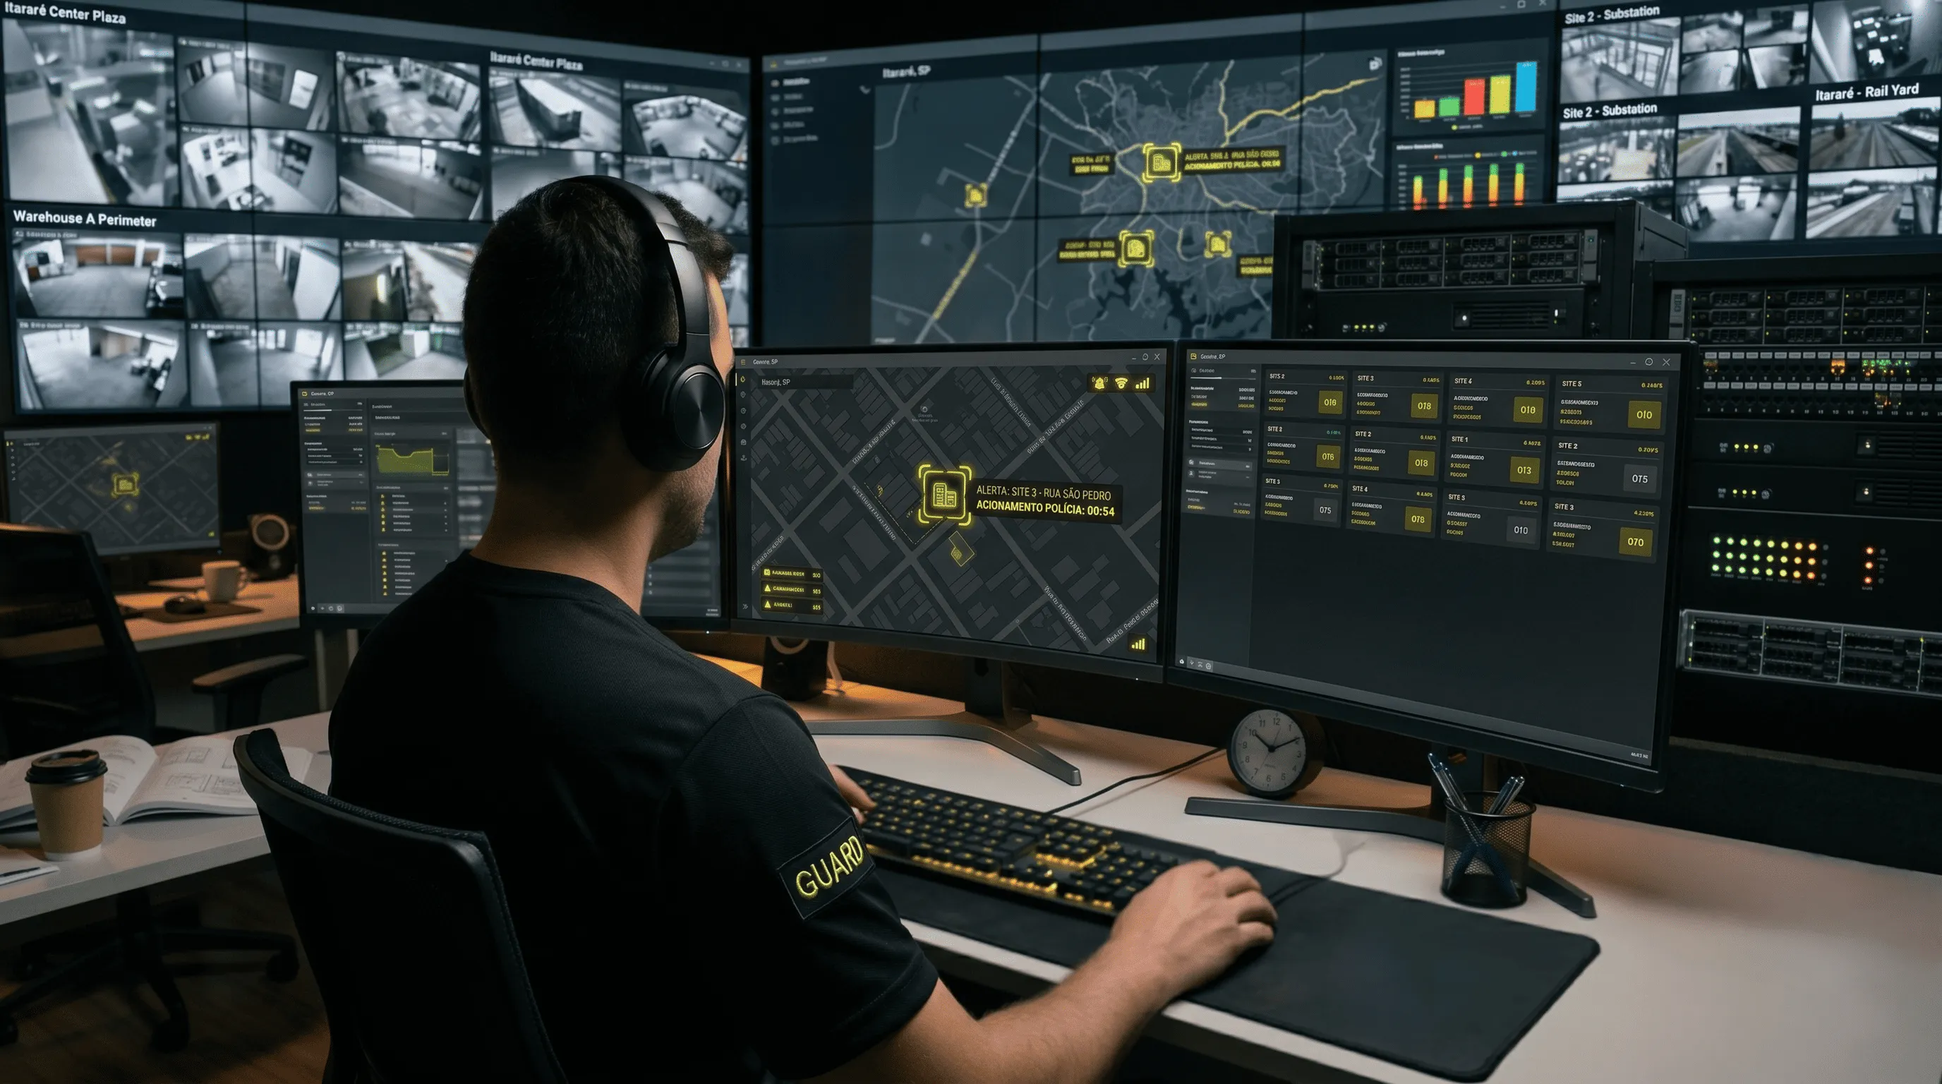
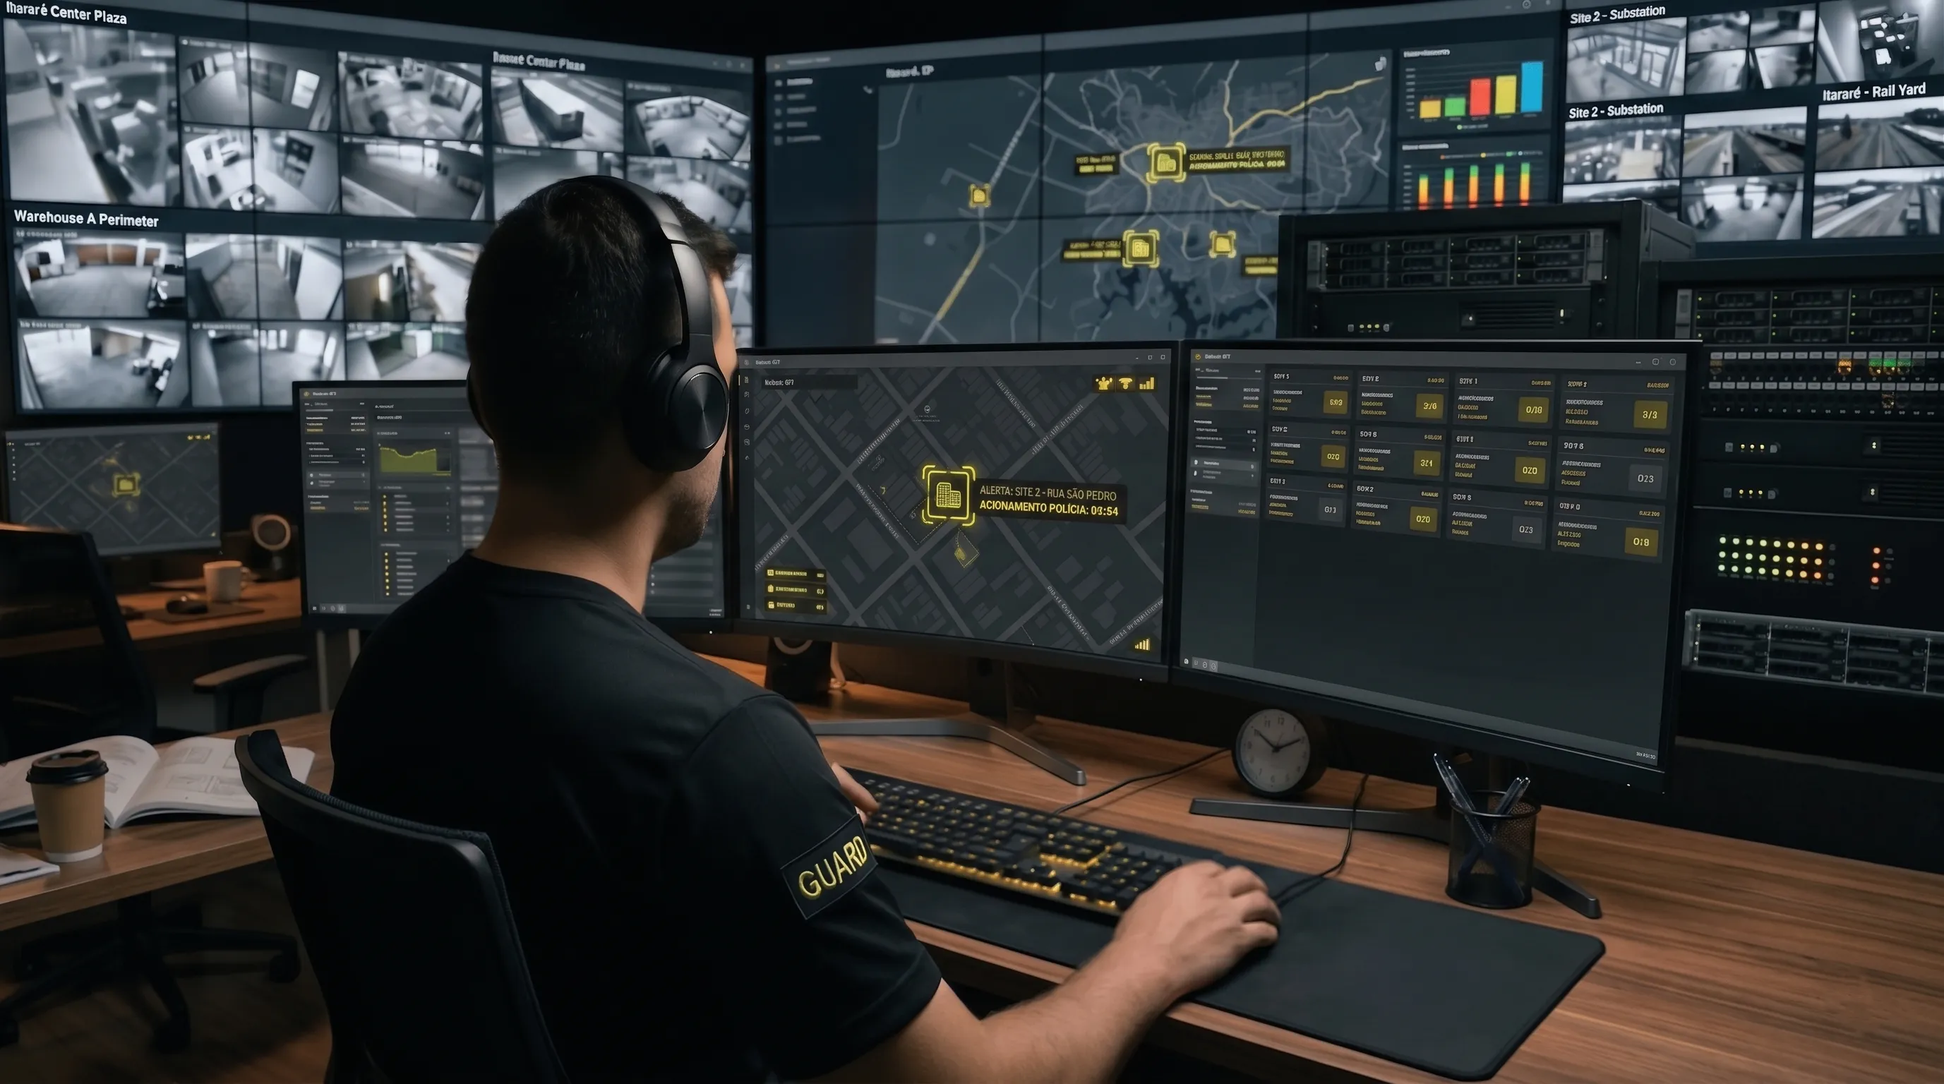
Add files via upload

diff --git a/Guard Site/cameras.html b/Guard Site/cameras.html
@@ -3,7 +3,7 @@
 <head>
     <title>Câmeras de Segurança Guard - Videomonitoramento Integrado</title>
     
-    <link rel="icon" type="image/webp" href="imagens/Airbrush-IMAGE-ENHANCER-1778007192247-1778007192247.webp">
+    <link rel="icon" type="image/webp" href="imagens/logo.webp">
     <meta charset="UTF-8">
     <meta name="viewport" content="width=device-width, initial-scale=1.0">
     
@@ -113,7 +113,7 @@
 
             <div id="logo-container"> 
                 <a href="index.html">
-                    <img src="imagens/Airbrush-IMAGE-ENHANCER-1778007192247-1778007192247.webp" alt="Logo Guard" id="logo">
+                    <img src="imagens/logo.webp" alt="Logo Guard" id="logo">
                 </a>
             </div>
 
@@ -162,12 +162,12 @@
         
         <ul id="subtittle-cards-displayer">
             <li>
-                <img src="imagens/camera-dome.webp" alt="Acesso ao vivo" class="card-image">
+                <img src="imagens/app-guard-alar-cam.webp" alt="Acesso ao vivo" class="card-image">
                 <h3>Controle 24h na sua mão</h3>
                 <p class="card-subtitle">Acesso pelo App Guard</p>
                 <ul class="card-features">
                     <li><span class="icon-arrow">&#8250;</span> Está longe e bateu a dúvida? Abra o aplicativo e <strong>veja ao vivo</strong> tudo o que está acontecendo no seu imóvel.</li>
-                    <li><span class="icon-arrow">&#8250;</span> Monitore a chegada de funcionários, prestadores de serviço ou certifique-se de que sua família está bem.</li>
+                    <li><span class="icon-arrow">&#8250;</span> Monitore a chegada de funcionários, prestadores de serviço ou certifique-se de que sua <strong>família está bem</strong>.</li>
                 </ul>
             </li>
 
@@ -176,8 +176,8 @@
                 <h3>Verificação Imediata</h3>
                 <p class="card-subtitle">O diferencial contra alarmes falsos</p>
                 <ul class="card-features">
-                    <li><span class="icon-arrow">&#8250;</span> Se o alarme disparar, nossa Central acessa a câmera <strong>instantaneamente</strong> para avaliar a ameaça.</li>
-                    <li><span class="icon-arrow">&#8250;</span> Ao confirmar visualmente a invasão, acionamos a polícia com prioridade máxima, garantindo uma resposta muito mais ágil.</li>
+                    <li><span class="icon-arrow">&#8250;</span> Se o alarme disparar, nossa Central acessa as câmeras <strong>instantaneamente</strong> para avaliar a situação.</li>
+                    <li><span class="icon-arrow">&#8250;</span> Ao confirmar visualmente a invasão, acionamos as <strong>forças competentes</strong>, garantindo uma resposta imediata.</li>
                 </ul>
             </li>
 
@@ -230,34 +230,34 @@
             <div class="best-protection-column">
                 <div class="bp-card">
                     <div class="bp-img-wrapper shape-left">
-                        <img src="imagens/infra-red-detector.webp" alt="Visão Noturna" class="bp-img">
+                        <img src="imagens/noturn-view-camera.webp" alt="Visão Noturna" class="bp-img">
                     </div>
                     <h3>Visão Noturna Inteligente</h3>
-                    <p>A escuridão não é um obstáculo. Nossas câmeras contam com sensores infravermelhos que garantem imagens nítidas e claras mesmo durante a madrugada ou em ambientes com pouca luz.</p>
+                    <p>A escuridão <strong>não é um obstáculo</strong>. Nossas câmeras contam com sensores infravermelhos que garantem <strong>imagens nítidas</strong> e claras mesmo durante a madrugada ou em ambientes com pouca luz.</p>
                 </div>
                 <div class="bp-card">
                     <div class="bp-img-wrapper shape-left">
-                        <img src="imagens/operator-monitoring.webp" alt="Privacidade Garantida" class="bp-img">
+                        <img src="imagens/cam-house-hard.webp" alt="Privacidade Garantida" class="bp-img">
                     </div>
-                    <h3>Privacidade 100% Garantida</h3>
-                    <p>O seu espaço é seu. A Central de Monitoramento Guard não tem acesso contínuo às suas câmeras. As imagens só são abertas no sistema pelos nossos operadores caso ocorra o salto do alarme.</p>
+                    <h3>Expertise Técnica Guard</h3>
+                    <p>Nossa equipe técnica projeta o posicionamento dos seus equipamentos com <strong>engenharia e expertise</strong>. O perímetro dos seus muros e recuos é mapeado milimetricamente para que <strong>nenhum movimento passe despercebido</strong>.</p>
                 </div>
             </div>
 
             <div class="best-protection-column offset-top">
                 <div class="bp-card">
                     <div class="bp-img-wrapper shape-right">
-                        <img src="imagens/app-guard-alarm.webp" alt="Integração Total" class="bp-img">
+                        <img src="imagens/house-cam-front.webp" alt="Integração Total" class="bp-img">
                     </div>
-                    <h3>Integração com Sistema de Alarme</h3>
-                    <p>Um sistema só é seguro se funcionar em conjunto. O videomonitoramento Guard é perfeitamente integrado à sua central de alarme, gerando uma barreira de verificação impenetrável.</p>
+                    <h3>Dupla Barreira de Proteção</h3>
+                    <p>Um alarme sozinho avisa a invasão, mas as câmeras unidas ao sistema <strong>evitam o início da ação</strong>. O invasor desiste antes mesmo de tentar tocar no seu patrimônio, sabendo que a sua <strong>imagem já está sendo monitorada pela nossa central</strong>.</p>
                 </div>
                 <div class="bp-card">
                     <div class="bp-img-wrapper shape-right">
-                        <img src="imagens/sensor-image-viewer-home.webp" alt="Alta Resolução" class="bp-img">
+                        <img src="imagens/delivery-guy.webp" alt="Alta Resolução" class="bp-img">
                     </div>
                     <h3>Gravação em Alta Resolução HD</h3>
-                    <p>Identifique detalhes cruciais, como rostos e placas de veículos. Com captura em alta definição e gravação contínua, você não perde nenhum detalhe do que acontece no seu patrimônio.</p>
+                    <p>Identifique detalhes cruciais, como rostos e placas de veículos. Com captura em <strong>alta definição e gravação contínua</strong>, você não perde nenhum detalhe do que acontece no seu patrimônio.</p>
                 </div>
             </div>
         </div>

diff --git a/Guard Site/home-alarm.html b/Guard Site/home-alarm.html
@@ -3,7 +3,7 @@
 <head>
     <title>Alarme Residencial Guard - Proteção para sua Casa</title>
     
-    <link rel="icon" type="image/webp" href="imagens/Airbrush-IMAGE-ENHANCER-1778007192247-1778007192247.webp">
+    <link rel="icon" type="image/webp" href="imagens/logo.webp">
     <meta charset="UTF-8">
     <meta name="viewport" content="width=device-width, initial-scale=1.0">
     
@@ -112,7 +112,7 @@
 
             <div id="logo-container"> 
                 <a href="index.html">
-                    <img src="imagens/Airbrush-IMAGE-ENHANCER-1778007192247-1778007192247.webp" alt="Logo Guard" id="logo">
+                    <img src="imagens/logo.webp" alt="Logo Guard" id="logo">
                 </a>
             </div>
 
@@ -165,8 +165,8 @@
                 <h3>Barreiras Invisíveis</h3>
                 <p class="card-subtitle">Tecnologia Infravermelho e de Feixe</p>
                 <ul class="card-features">
-                    <li><span class="icon-arrow">&#8250;</span> A Placa de aviso <strong>Guard</strong> afasta invasores de forma preventiva.</li>
-                    <li><span class="icon-arrow">&#8250;</span> Sistemas baseados em sensores infravermelhos e de feixe geram proteção perimetral contra intrusos, complementados por cerca elétrica e sensores de barreira discretos.</li>
+                    <li><span class="icon-arrow">&#8250;</span> A presença da placa de aviso <strong>Guard</strong> inibe tentativas de intrusão <strong>antes mesmo que elas ocorram</strong>, agindo como primeira linha de <strong>defesa psicológica.</strong></li>
+                    <li><span class="icon-arrow">&#8250;</span> Sensores de feixe infravermelho criam uma <strong>malha de proteção invisível ao redor do perímetro</strong>, perfeitamente integrada a câmeras, cercas elétricas e sensores lineares discretos para uma cobertura total e sem pontos cegos.</li>
                 </ul>
             </li>
 
@@ -185,8 +185,8 @@
                 <h3>Resposta Rápida</h3>
                 <p class="card-subtitle">Aviso ágil às autoridades</p>
                 <ul class="card-features">
-                    <li><span class="icon-arrow">&#8250;</span> Confirmada a tentativa de roubo, a sirene dispara para inibir a ação no local.</li>
-                    <li><span class="icon-arrow">&#8250;</span> Garantimos uma <strong>resposta rápida acionando a polícia em até 60 segundos</strong>.</li>
+                    <li><span class="icon-arrow">&#8250;</span> Confirmada a tentativa de furto, a sirene dispara para inibir a ação no local.</li>
+                    <li><span class="icon-arrow">&#8250;</span> Garantimos uma <strong>resposta rápida acionando as autoridades imediatamente</strong>.</li>
                 </ul>
             </li>
         </ul>
@@ -229,17 +229,17 @@
             <div class="best-protection-column">
                 <div class="bp-card">
                     <div class="bp-img-wrapper shape-left">
-                        <img src="imagens/sensor-image-viewer-home.webp" alt="Sensores Infravermelhos" class="bp-img">
+                        <img src="imagens/infra-red-detector.webp" alt="Sensores Infravermelhos" class="bp-img">
                     </div>
-                    <h3>Sensores Infravermelho e de Feixe</h3>
-                    <p>Foco total em tecnologia de detecção por feixe e sensores infravermelhos de alta precisão para cobrir o perímetro. Sensores de barreira adicionais e cercas elétricas atuam de forma discreta nos muros.</p>
+                    <h3>Sensores Infravermelho</h3>
+                    <p>Foco total em tecnologia de detecção por sensores infravermelhos de <strong>alta precisão</strong> para cobrir totalmente o perímetro. Câmeras, sensores de feixes adicionais e cercas elétricas <strong>blidarão sua residênca</strong>.</p>
                 </div>
                 <div class="bp-card">
                     <div class="bp-img-wrapper shape-left">
-                        <img src="imagens/night-operator-image-viewer-home.webp" alt="Central 24 Horas" class="bp-img">
+                        <img src="imagens/background-card-action.webp" alt="Central 24 Horas" class="bp-img">
                     </div>
                     <h3>Central de Monitoramento 24h</h3>
-                    <p>A sua casa protegida sem interrupções. Nossa equipe especializada opera em plantão contínuo para analisar e tratar qualquer sinal de disparo com agilidade e máxima eficiência.</p>
+                    <p><strong>A sua casa protegida sem interrupções</strong>. Nossa equipe especializada opera em plantão contínuo para analisar e tratar qualquer sinal de disparo com <strong>agilidade e máxima eficiência</strong>.</p>
                 </div>
             </div>
 
@@ -249,14 +249,14 @@
                         <img src="imagens/app-guard-alarm.webp" alt="Controle por Aplicativo" class="bp-img">
                     </div>
                     <h3>Controle Total por Aplicativo</h3>
-                    <p>Ative, desative e gerencie todo o seu sistema de segurança na palma da mão. Acompanhe relatórios de status e notificações de eventos em tempo real, onde quer que você esteja.</p>
+                    <p><strong>Ative, desative e gerencie</strong> todo o seu sistema de segurança na palma da mão. Acompanhe relatórios de status e notificações de eventos em <strong>tempo real, onde quer que você esteja</strong>.</p>
                 </div>
                 <div class="bp-card">
                     <div class="bp-img-wrapper shape-right">
-                        <img src="imagens/person-detected.webp" alt="Botão de Pânico Físico" class="bp-img">
+                        <img src="imagens/background-farm-panic-button.webp" alt="Botão de Pânico Físico" class="bp-img">
                     </div>
                     <h3>Botão de Pânico Instalado</h3>
-                    <p>Um botão físico fixado estrategicamente em pontos seguros da casa. Em caso de emergência ou coação, basta um aperto para enviar um aviso imediato e silencioso para a nossa Central.</p>
+                    <p>Um botão físico fixado estrategicamente em pontos seguros da casa. Em caso de emergência ou coação, <strong>basta um aperto</strong> para enviar um aviso imediato e silencioso para a nossa Central.</p>
                 </div>
             </div>
         </div>

diff --git a/Guard Site/index.html b/Guard Site/index.html
@@ -3,7 +3,7 @@
 <head>
     <title>Guard - Soluções em Segurança e Monitoramento</title>
     
-    <link rel="icon" type="image/webp" href="imagens\Airbrush-IMAGE-ENHANCER-1778007192247-1778007192247.webp">
+    <link rel="icon" type="image/webp" href="imagens\logo.webp">
 
     <meta charset="UTF-8">
     <meta name="viewport" content="width=device-width, initial-scale=1.0">
@@ -113,7 +113,7 @@
 
             <div id="logo-container"> 
                 <a href="">
-                    <img src="imagens/Airbrush-IMAGE-ENHANCER-1778007192247-1778007192247.webp" alt="Logo Guard" id="logo">
+                    <img src="imagens/logo.webp" alt="Logo Guard" id="logo">
                 </a>
             </div>
 
@@ -341,7 +341,7 @@
         </div>
         <ul id="subtittle-cards-displayer">
             <li>
-                <img src="imagens/bubble-lasers.webp" alt="Descrição da imagem" class="card-image">
+                <img src="imagens/cam-house-hard.webp" alt="Descrição da imagem" class="card-image">
                 <h3>Detecção antecipada</h3>
                 <p class="card-subtitle">sem risco de sabotagem</p>
                 <ul class="card-features">
@@ -362,8 +362,8 @@
             </li>
 
             <li>
-                <img src="imagens/sirene.webp" alt="Descrição da imagem" class="card-image">
-                <h3>Aviso à polícia em até 60 seg</h3>
+                <img src="imagens/sirene-image-viewer-home.webp" alt="Descrição da imagem" class="card-image">
+                <h3>Aviso as autoridades imediatamente</h3>
                 <p class="card-subtitle">ação rápida para garantir sua proteção</p>
                 <ul class="card-features">
                     <li><span class="icon-arrow">&#8250;</span> Resposta rápida e eficaz, <strong>com notificação da polícia</strong> e dos serviços de emergência.</li>
@@ -477,7 +477,7 @@
                 </div>
                 <div class="bp-card">
                     <div class="bp-img-wrapper shape-left">
-                        <img src="imagens/operator-monitoring.webp" alt="Intervenção humana" class="bp-img">
+                        <img src="imagens/background-card-action.webp" alt="Intervenção humana" class="bp-img">
                     </div>
                     <h3>Central de monitoramento 24h</h3>
                     <p>Especialistas treinados acompanham os sinais do seu sistema em tempo real. Ao receber um alerta, nossa equipe analisa a situação e, se houver ameaça real, intervém acionando a polícia de forma imediata e assertiva.</p>

diff --git a/Guard Site/enterprise-alarm.html b/Guard Site/enterprise-alarm.html
@@ -3,7 +3,7 @@
 <head>
     <title>Alarme Empresarial Guard - Proteção para o seu Negócio</title>
     
-    <link rel="icon" type="image/webp" href="imagens/Airbrush-IMAGE-ENHANCER-1778007192247-1778007192247.webp">
+    <link rel="icon" type="image/webp" href="imagens/logo.webp">
     <meta charset="UTF-8">
     <meta name="viewport" content="width=device-width, initial-scale=1.0">
     
@@ -111,7 +111,7 @@
 
             <div id="logo-container"> 
                 <a href="index.html">
-                    <img src="imagens/Airbrush-IMAGE-ENHANCER-1778007192247-1778007192247.webp" alt="Logo Guard" id="logo">
+                    <img src="imagens/logo.webp" alt="Logo Guard" id="logo">
                 </a>
             </div>
 
@@ -145,7 +145,7 @@
             <div class="enterprise-hero-text">
                 <span class="linha-branca">Proteção completa para o seu negócio</span><br>
                 <span class="linha-amarela">Alarme Empresarial Guard</span>
-                <p class="hero-subtitle">Mantenha sua empresa segura fora do horário comercial. Proteja seu estoque, controle o acesso de funcionários pelo app e garanta resposta policial em até 60 segundos.</p>
+                <p class="hero-subtitle">Mantenha sua empresa segura fora do horário comercial. Proteja seu estoque, controle o acesso de funcionários pelo app e garanta resposta imediata das autoridades competentes.</p>
                 <a href="index.html#advertisement-calculator" class="btn-guard-glow" style="margin-top: 40px; text-decoration: none;">
                     CALCULAR PROJETO <div class="icon-circle">&#8250;</div>
                 </a>

diff --git a/Guard Site/politica-cookies.html b/Guard Site/politica-cookies.html
@@ -5,8 +5,8 @@
     <meta name="viewport" content="width=device-width, initial-scale=1.0">
     <title>Política de Cookies - Guard</title>
     
-    <link rel="icon" type="image/webp" href="imagens/Airbrush-IMAGE-ENHANCER-1778007192247-1778007192247.webp">
-    
+        <link rel="icon" type="image/webp" href="imagens/logo.webp">
+
     <link rel="preconnect" href="https://fonts.googleapis.com">
     <link rel="preconnect" href="https://fonts.gstatic.com" crossorigin>
     <link href="https://fonts.googleapis.com/css2?family=Fira+Sans:wght@400;700;800&display=swap" rel="stylesheet">
@@ -238,7 +238,7 @@
 
             <div id="logo-container"> 
                 <a href="index.html">
-                    <img src="imagens/Airbrush-IMAGE-ENHANCER-1778007192247-1778007192247.webp" alt="Logo Guard" id="logo">
+                    <img src="imagens/logo.webp" alt="Logo Guard" id="logo">
                 </a>
             </div>
 

diff --git a/Guard Site/privacy-policy.html b/Guard Site/privacy-policy.html
@@ -6,7 +6,7 @@
     <title>Política de Privacidade - Guard</title>
     
     <!-- Link para o logotipo na aba -->
-    <link rel="icon" type="image/webp" href="imagens/Airbrush-IMAGE-ENHANCER-1778007192247-1778007192247.webp">
+    <link rel="icon" type="image/webp" href="imagens/logo.webp">
     
     <link rel="preconnect" href="https://fonts.googleapis.com">
     <link rel="preconnect" href="https://fonts.gstatic.com" crossorigin>
@@ -232,7 +232,7 @@
 
             <div id="logo-container"> 
                 <a href="index.html">
-                    <img src="imagens/Airbrush-IMAGE-ENHANCER-1778007192247-1778007192247.webp" alt="Logo Guard" id="logo">
+                    <img src="imagens/logo.webp" alt="Logo Guard" id="logo">
                 </a>
             </div>
 

diff --git a/Guard Site/rural-alarm.html b/Guard Site/rural-alarm.html
@@ -3,7 +3,7 @@
 <head>
     <title>Alarme Zona Rural Guard - Proteção para Chácaras e Sítios</title>
     
-    <link rel="icon" type="image/webp" href="imagens/Airbrush-IMAGE-ENHANCER-1778007192247-1778007192247.webp">
+    <link rel="icon" type="image/webp" href="imagens/logo.webp">
     <meta charset="UTF-8">
     <meta name="viewport" content="width=device-width, initial-scale=1.0">
     
@@ -111,7 +111,7 @@
 
             <div id="logo-container"> 
                 <a href="index.html">
-                    <img src="imagens/Airbrush-IMAGE-ENHANCER-1778007192247-1778007192247.webp" alt="Logo Guard" id="logo">
+                    <img src="imagens/logo.webp" alt="Logo Guard" id="logo">
                 </a>
             </div>
 

diff --git a/Guard Site/help-informations.html b/Guard Site/help-informations.html
@@ -3,7 +3,7 @@
 <head>
     <title>Ajuda e Informações - Suporte Guard 24h</title>
     
-    <link rel="icon" type="image/webp" href="imagens/Airbrush-IMAGE-ENHANCER-1778007192247-1778007192247.webp">
+    <link rel="icon" type="image/webp" href="imagens/logo.webp">
     <meta charset="UTF-8">
     <meta name="viewport" content="width=device-width, initial-scale=1.0">
     
@@ -115,7 +115,7 @@
 
             <div id="logo-container"> 
                 <a href="index.html">
-                    <img src="imagens/Airbrush-IMAGE-ENHANCER-1778007192247-1778007192247.webp" alt="Logo Guard" id="logo">
+                    <img src="imagens/logo.webp" alt="Logo Guard" id="logo">
                 </a>
             </div>
 

diff --git a/Guard Site/Style.css b/Guard Site/Style.css
@@ -2770,6 +2770,11 @@ nav ul li a:hover {
     text-shadow: 0 2px 10px rgba(0,0,0,0.8);
 }
 
+strong {
+    color: #FFFF00;
+    font-weight: 700;
+}
+
 .service-card strong {
     color: #FFFF00;
     font-weight: 700;
